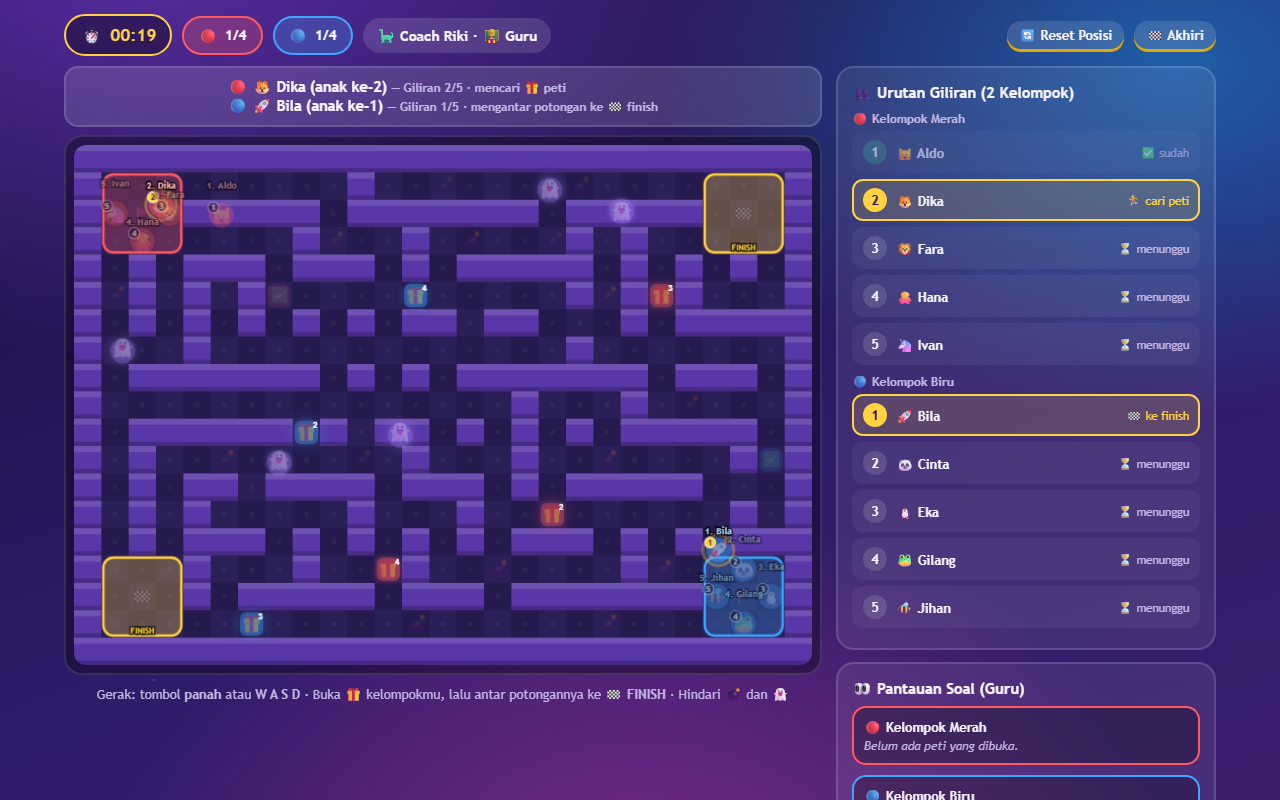
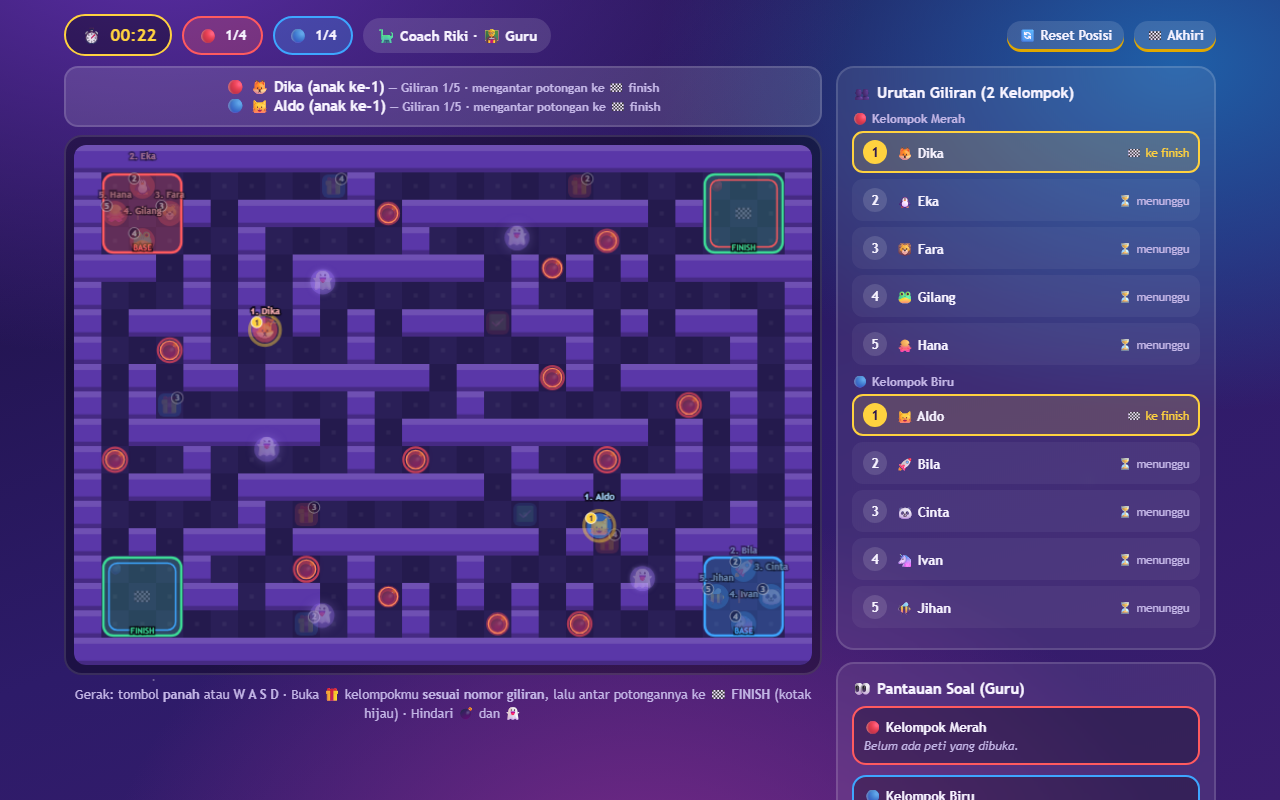
Labirin Harta Karun: peti berurutan, finish hijau, bom lebih terlihat
- Garis finish dibedakan warnanya: ruang finish sekarang HIJAU (base tetap
  merah/biru) dengan bingkai dalam warna kelompok + label "FINISH", dan base
  diberi label "BASE". Jadi jelas mana garis akhir dan milik siapa.
- Bom tidak lagi tenggelam di lantai ungu: emoji 💣 diberi cakram merah
  menyala, cincin peringatan berdenyut, dan bayangan.
- Peti wajib dibuka BERURUTAN sesuai nomor giliran — anak ke-1 hanya bisa
  membuka peti #1, anak ke-2 peti #2, dst. Peti bernomor lain tidak bereaksi
  kalau diinjak. Peti yang sedang jadi target menyala kuning, sisanya redup,
  dan nomornya dibuat lebih besar.
- Letak peti dijauhkan dari semua ruangan: jarak minimal dari base & finish
  kedua kelompok dinaikkan (minimal 9 langkah dari base sendiri), lalu peti
  diurutkan dari yang terdekat supaya rutenya makin jauh tiap giliran.
- Layar hasil: siswa langsung melihat prompt kelompoknya sendiri (tombol
  pilih kelompok disembunyikan); hanya guru yang punya kedua tab.

diff --git a/frontend/public/projects/labirin-harta-karun.html b/frontend/public/projects/labirin-harta-karun.html
@@ -365,8 +365,9 @@ body.guru .gwrap{grid-template-columns:1fr 380px}
     <p class="hint" style="margin:-4px 0 12px">Maksimal <b>10 siswa</b> — 5 anak Kelompok Merah &amp; 5 anak Kelompok Biru. <b>Guru tidak ikut bermain</b>: layar guru dipakai untuk memandu &amp; menampilkan permainan ke kelas.</p>
     <div class="hint" style="margin:-4px 0 12px;padding:10px 12px;border-radius:12px;background:rgba(255,255,255,.06)">
       <b>🎮 Aturan main (bergilir):</b> tiap kelompok jalan <b>satu per satu</b>.
-      Anak ke-1 masuk labirin mencari 🎁 peti pertama — teman-temannya menunggu di titik start dan
-      <b>ikut bantu menjawab soalnya</b>. Setelah peti terbuka, anak ke-1 mengantar potongan prompt ke 🏁 <b>FINISH</b>,
+      Anak ke-1 masuk labirin mencari 🎁 <b>peti #1</b>, anak ke-2 mencari <b>peti #2</b>, dan seterusnya —
+      peti bernomor lain tidak akan terbuka. Teman-temannya menunggu di base dan
+      <b>ikut bantu menjawab soalnya</b>. Setelah peti terbuka, anak ke-1 mengantar potongan prompt ke 🏁 <b>FINISH</b> (kotak hijau di seberang base),
       baru giliran anak ke-2, dan seterusnya. Petinya ada 4, jadi anak ke-5 kebagian <b>lari penutup</b>
       menyeberangi labirin sampai finish — saat itu kelompoknya dinyatakan selesai.
       Kalau anggotanya kurang dari 5, urutannya <b>berputar lagi</b> dari anak pertama.
@@ -437,7 +438,7 @@ body.guru .gwrap{grid-template-columns:1fr 380px}
         <button data-d="L">◀</button><span></span><button data-d="R">▶</button>
         <span></span><button data-d="D">▼</button><span></span>
       </div>
-      <p class="hint" id="hintKontrol" style="text-align:center;margin-top:10px">Gerak: tombol <b>panah</b> atau <b>W A S D</b> · Buka 🎁 kelompokmu, lalu antar potongannya ke 🏁 <b>FINISH</b> · Hindari 💣 dan 👻</p>
+      <p class="hint" id="hintKontrol" style="text-align:center;margin-top:10px">Gerak: tombol <b>panah</b> atau <b>W A S D</b> · Buka 🎁 kelompokmu <b>sesuai nomor giliran</b>, lalu antar potongannya ke 🏁 <b>FINISH</b> (kotak hijau) · Hindari 💣 dan 👻</p>
     </div>
 
     <div class="side">
@@ -538,7 +539,7 @@ body.guru .gwrap{grid-template-columns:1fr 380px}
 /* Dinaikkan setiap kali aturan main berubah. Dipakai untuk memperingatkan
    perangkat yang masih memuat versi lama dari cache browser — kalau host dan
    pemain beda versi, aturannya tidak cocok dan permainan bisa macet. */
-var GAME_VER = '2026.10.10';
+var GAME_VER = '2026.10.10b';
 
 var CONFIG = {
   // --- OPSIONAL: tempel config Firebase di sini agar sync lebih stabil ---
@@ -817,24 +818,36 @@ function buildWorld(seed){
     }
     return true;
   }
+  /* Peti tidak boleh nempel ke ruangan mana pun (base & finish kedua kelompok),
+     supaya anak benar-benar masuk labirin dulu. */
+  var pusatRuang = [starts.merah, starts.biru, finish.merah, finish.biru];
+  function jauhDariRuang(c, min){
+    for(var i=0;i<pusatRuang.length;i++){
+      if(Math.abs(pusatRuang[i].x-c.x)+Math.abs(pusatRuang[i].y-c.y) < min) return false;
+    }
+    return true;
+  }
   function pickChests(dist, other, minFromStart){
-    var cand = shuffleSeeded(open.filter(function(c){
-      return dist[c.y][c.x] >= minFromStart;
-    }), rnd);
-    var out=[], minGap=7;
+    var out=[], minGap=7, minRuang=6;
     while(out.length<4 && minGap>2){
+      var cand = shuffleSeeded(open.filter(function(c){
+        return dist[c.y][c.x] >= minFromStart && jauhDariRuang(c, minRuang);
+      }), rnd);
       for(var i=0;i<cand.length && out.length<4;i++){
         var c=cand[i];
         if(!far(out,c,minGap)) continue;
         if(!far(other,c,4)) continue;
         out.push({x:c.x,y:c.y});
       }
-      minGap-=2;
+      minGap-=2; if(minRuang>4) minRuang-=1;
     }
+    /* Peti dibuka BERURUTAN (anak ke-1 wajib peti #1, dst), jadi diurutkan dari
+       yang terdekat ke base supaya rutenya makin jauh di tiap giliran. */
+    out.sort(function(a,b){ return dist[a.y][a.x] - dist[b.y][b.x]; });
     return out;
   }
-  var chM = pickChests(dM, [], 7);
-  var chB = pickChests(dB, chM, 7);
+  var chM = pickChests(dM, [], 9);
+  var chB = pickChests(dB, chM, 9);
 
   // --- bom ---
   // bom juga menjauh dari mulut base & finish
@@ -1549,14 +1562,13 @@ var HOST = {
       }
     }
     if(g.stage==='cari'){
-      // sedang berburu peti: peti kelompok sendiri yang belum terbuka
-      var ch=w.chests[p.group];
-      for(var c=0;c<ch.length;c++){
-        if(ch[c].x===nx && ch[c].y===ny && !g.found[c] && !g.active){
-          g.active = { ci:c, qIdx:g.qIdx[c], by:p.pid, byName:p.name, deadline: nowMs()+CONFIG.ANSWER_SECONDS*1000, ans:SOAL[g.qIdx[c]].a };
-          g.result = null;
-          return;
-        }
+      /* Peti HARUS berurutan: giliran ke-1 membuka peti #1, giliran ke-2 peti #2,
+         dst. Peti lain tidak bereaksi kalau diinjak. */
+      var c = g.turn;
+      var ch = w.chests[p.group][c];
+      if(ch && ch.x===nx && ch.y===ny && !g.found[c] && !g.active){
+        g.active = { ci:c, qIdx:g.qIdx[c], by:p.pid, byName:p.name, deadline: nowMs()+CONFIG.ANSWER_SECONDS*1000, ans:SOAL[g.qIdx[c]].a };
+        g.result = null;
       }
       return;
     }
@@ -1650,6 +1662,7 @@ var HOST = {
         activeCi: g.active? g.active.ci : null,
         activeDeadline: g.active? g.active.deadline : null,
         order: g.order.slice(), turn: g.turn, lewat: g.lewat||0, misi: CONFIG.MISI, stage: g.stage,
+        petiTarget: (g.stage==='cari' && g.turn<4) ? g.turn : null,
         turnPid: gil, turnName: pg? pg.name : null, turnAva: pg? pg.ava : null,
         turnNo: pg? (pg.nomor||0) : 0
       };
@@ -1891,7 +1904,7 @@ function renderUrutan(){
       var sudah=false;
       for(var tcek=0; tcek<g.turn; tcek++) if((tcek+(g.lewat||0))%n===i){ sudah=true; break; }
       var st = g.finishedAt!=null ? '✅ selesai'
-             : sekarang ? (g.stage==='pulang' ? '🏁 ke finish' : '🏃 cari peti')
+             : sekarang ? (g.stage==='pulang' ? '🏁 ke finish' : ('🏃 cari peti #'+(g.turn+1)))
              : (sudah ? '✅ sudah' : '⏳ menunggu');
       html += '<div class="urow'+(sekarang?' now':'')+(sudah&&!sekarang?' sudah':'')+(pid===MY.pid?' aku':'')+'">'+
               '<span class="no">'+(i+1)+'</span>'+
@@ -1913,7 +1926,7 @@ function teksMisi(g){
       ? 'lari penutup ke 🏁 finish'
       : 'mengantar potongan ke 🏁 finish');
   }
-  return 'Giliran '+no+'/'+tot+' · mencari 🎁 peti';
+  return 'Giliran '+no+'/'+tot+' · mencari 🎁 peti #'+no;
 }
 function renderGiliran(){
   var S=V.pub, me=S.players[MY.pid]; if(!me) return;
@@ -1953,9 +1966,10 @@ function renderGiliran(){
       ? (g.turn>=(g.misi||CONFIG.MISI)-1
           ? '<span class="ava">🏁</span><div>GILIRANMU — LARI PENUTUP!<small>Petinya sudah habis. Seberangi labirin sampai 🏁 finish untuk menutup permainan kelompokmu.</small></div>'
           : '<span class="ava">🏁</span><div>Peti terbuka — antar ke FINISH!<small>Bawa potongan promptnya ke petak 🏁 supaya giliran teman berikutnya bisa mulai.</small></div>')
-      : '<span class="ava">🏃</span><div>GILIRANMU — cari 🎁 peti!<small>Teman sekelompokmu menunggu di titik start dan siap bantu menjawab soalnya.</small></div>';
+      : '<span class="ava">🏃</span><div>GILIRANMU — cari 🎁 PETI #'+(g.turn+1)+'!<small>Hanya peti bernomor <b>'+(g.turn+1)+
+        '</b> yang bisa kamu buka. Teman sekelompokmu menunggu di base dan siap bantu menjawab soalnya.</small></div>';
     bar.innerHTML=isi;
-    pil.innerHTML = (g.stage==='pulang') ? '🏁 Ke finish!' : '🏃 Giliranmu!';
+    pil.innerHTML = (g.stage==='pulang') ? '🏁 Ke finish!' : ('🏃 Peti #'+(g.turn+1));
   }else{
     bar.className='gbar';
     var nm = g.turnName ? esc(g.turnName) : '—';
@@ -2180,7 +2194,12 @@ function renderDone(){
     box.appendChild(d);
   });
   var me=S.players[MY.pid];
-  $('btnAgain').classList.toggle('hidden', !(me&&me.role==='guru'));
+  var guru = me && me.role==='guru';
+  // siswa langsung melihat prompt kelompoknya sendiri; tombol pilih kelompok
+  // hanya untuk guru (cuma guru yang memegang kedua prompt).
+  if(!guru && me && me.group) doneTab = me.group;
+  $('doneTabs').classList.toggle('hidden', !guru);
+  $('btnAgain').classList.toggle('hidden', !guru);
   showDonePrompt();
 }
 function showDonePrompt(){
@@ -2318,6 +2337,7 @@ function draw(){
       ctx.restore();
       return {x:rx+rw/2, y:ry+rh/2};
     }
+    // BASE = warna kelompok (merah / biru)
     var bb=WORLD.baseBox[g];
     gambarRuang(bb, warna, warna, .26);
     var s=WORLD.starts[g];
@@ -2325,29 +2345,60 @@ function draw(){
     ctx.font='bold '+Math.floor(CS*0.5)+'px sans-serif'; ctx.textAlign='center'; ctx.textBaseline='middle';
     ctx.globalAlpha=.75; ctx.fillText('🚩', SX(s.x)+CS/2, SY(s.y)+CS/2+1);
     ctx.restore();
+    if(CS>=18){
+      ctx.save();
+      ctx.font='bold '+Math.max(8,Math.floor(CS*0.28))+'px "Trebuchet MS",sans-serif';
+      ctx.textAlign='center'; ctx.textBaseline='middle';
+      ctx.lineWidth=3; ctx.strokeStyle='rgba(0,0,0,.7)';
+      var by=SY(bb.y1)+CS*0.78;
+      ctx.strokeText('BASE', SX(s.x)+CS/2, by);
+      ctx.fillStyle=warna; ctx.fillText('BASE', SX(s.x)+CS/2, by);
+      ctx.restore();
+    }
 
+    /* FINISH = HIJAU, sengaja dibedakan dari base supaya anak langsung tahu
+       mana garis akhir. Bingkai dalam tetap warna kelompok sebagai penanda
+       finish ini milik siapa. */
     var fb=WORLD.finishBox[g], pulse=0.5+0.5*Math.sin(t*3);
-    gambarRuang(fb, '#ffd23f', '#ffd23f', .14+.16*pulse);
-    var f=WORLD.finish[g];
+    gambarRuang(fb, '#3ddc97', '#3ddc97', .20+.18*pulse);
+    var fx=SX(fb.x0), fy=SY(fb.y0), fw=(fb.x1-fb.x0+1)*CS, fh=(fb.y1-fb.y0+1)*CS;
     ctx.save();
+    ctx.lineWidth=Math.max(1.5,CS*0.055); ctx.strokeStyle=warna;
+    roundRect(ctx,fx+CS*0.28,fy+CS*0.28,fw-CS*0.56,fh-CS*0.56,8); ctx.stroke();
+    var f=WORLD.finish[g];
     ctx.font='bold '+Math.floor(CS*0.6)+'px sans-serif'; ctx.textAlign='center'; ctx.textBaseline='middle';
     ctx.fillText('🏁', SX(f.x)+CS/2, SY(f.y)+CS/2+1);
+    ctx.font=Math.floor(CS*0.42)+'px sans-serif';
+    ctx.fillText(g==='merah'?'🔴':'🔵', fx+CS*0.52, fy+CS*0.5);
     if(CS>=18){
       ctx.font='bold '+Math.max(8,Math.floor(CS*0.3))+'px "Trebuchet MS",sans-serif';
-      ctx.lineWidth=3; ctx.strokeStyle='rgba(0,0,0,.7)';
+      ctx.lineWidth=3; ctx.strokeStyle='rgba(0,0,0,.75)';
       var ty=SY(fb.y1)+CS*0.78;
-      ctx.strokeText('FINISH', SX(f.x)+CS/2, ty); ctx.fillStyle='#ffd23f';
-      ctx.fillText('FINISH', SX(f.x)+CS/2, ty);
+      ctx.strokeText('FINISH', SX(f.x)+CS/2, ty);
+      ctx.fillStyle='#3ddc97'; ctx.fillText('FINISH', SX(f.x)+CS/2, ty);
     }
     ctx.restore();
   });
-  // bom
+  /* bom — emoji 💣 saja hampir tidak terlihat di atas lantai ungu gelap,
+     jadi diberi cakram merah menyala + cincin berdenyut sebagai tanda bahaya */
   WORLD.bombs.forEach(function(b){
-    var sx=SX(b.x), sy=SY(b.y);
-    var pulse = 0.75+0.25*Math.sin(t*4+b.x+b.y);
-    ctx.save(); ctx.globalAlpha=pulse;
-    ctx.font=Math.floor(CS*0.72)+'px sans-serif'; ctx.textAlign='center'; ctx.textBaseline='middle';
-    ctx.fillText('💣', sx+CS/2, sy+CS/2+1);
+    var sx=SX(b.x), sy=SY(b.y), cx=sx+CS/2, cy=sy+CS/2;
+    if(sx<-CS||sy<-CS||sx>cv.width+CS||sy>cv.height+CS) return;
+    var pulse = 0.5+0.5*Math.sin(t*4+b.x+b.y);
+    ctx.save();
+    // cincin peringatan
+    ctx.globalAlpha=0.35+0.4*pulse;
+    ctx.lineWidth=Math.max(1.5,CS*0.08); ctx.strokeStyle='#ff4d5e';
+    ctx.beginPath(); ctx.arc(cx, cy, CS*(0.36+0.1*pulse), 0, 7); ctx.stroke();
+    // cakram isi
+    ctx.globalAlpha=1;
+    ctx.beginPath(); ctx.fillStyle='rgba(255,77,94,.45)';
+    ctx.arc(cx, cy, CS*0.34, 0, 7); ctx.fill();
+    ctx.lineWidth=Math.max(1,CS*0.05); ctx.strokeStyle='#ff8a5c';
+    ctx.beginPath(); ctx.arc(cx, cy, CS*0.34, 0, 7); ctx.stroke();
+    ctx.shadowColor='#ff4d5e'; ctx.shadowBlur=4+6*pulse;
+    ctx.font=Math.floor(CS*0.56)+'px sans-serif'; ctx.textAlign='center'; ctx.textBaseline='middle';
+    ctx.fillText('💣', cx, cy+1);
     ctx.restore();
   });
   // peti
@@ -2358,13 +2409,15 @@ function draw(){
       var sx=SX(c.x), sy=SY(c.y);
       var mine = (meG===g) || (me&&me.role==='guru');
       var ambil = pub.found && pub.found[i];
+      var giliranPeti = (pub.petiTarget===i);     // peti yang WAJIB dibuka sekarang
       ctx.save();
-      if(ambil){ ctx.globalAlpha=.35; }
-      else if(!mine){ ctx.globalAlpha=.4; }
+      if(ambil){ ctx.globalAlpha=.3; }
+      else if(!mine){ ctx.globalAlpha=.35; }
+      else if(!giliranPeti){ ctx.globalAlpha=.42; }   // belum / bukan giliran peti ini
       else {
-        var gl=0.5+0.5*Math.sin(t*3+i);
-        ctx.shadowColor = g==='merah'? '#ff5a5f':'#3ea6ff';
-        ctx.shadowBlur = 6+10*gl;
+        var gl=0.5+0.5*Math.sin(t*4+i);
+        ctx.shadowColor = '#ffd23f';
+        ctx.shadowBlur = 10+16*gl;
       }
       ctx.fillStyle = g==='merah'? 'rgba(255,90,95,.35)':'rgba(62,166,255,.35)';
       roundRect(ctx,sx+2,sy+2,CS-4,CS-4,6); ctx.fill();
@@ -2372,8 +2425,16 @@ function draw(){
       ctx.font=Math.floor(CS*0.66)+'px sans-serif'; ctx.textAlign='center'; ctx.textBaseline='middle';
       ctx.fillText(ambil?'✅':'🎁', sx+CS/2, sy+CS/2+1);
       if(!ambil){
-        ctx.font='bold '+Math.floor(CS*0.3)+'px sans-serif';
-        ctx.fillStyle='#fff'; ctx.fillText(String(i+1), sx+CS*0.82, sy+CS*0.24);
+        // nomor peti: besar & jelas, karena urutannya wajib
+        var nx2=sx+CS*0.78, ny3=sy+CS*0.24;
+        ctx.beginPath();
+        ctx.fillStyle = giliranPeti? '#ffd23f' : 'rgba(10,4,30,.8)';
+        ctx.arc(nx2, ny3, CS*0.21, 0, 7); ctx.fill();
+        ctx.lineWidth=Math.max(1,CS*0.04); ctx.strokeStyle='rgba(255,255,255,.8)'; ctx.stroke();
+        ctx.font='bold '+Math.max(8,Math.floor(CS*0.3))+'px "Trebuchet MS",sans-serif';
+        ctx.textAlign='center'; ctx.textBaseline='middle';
+        ctx.fillStyle = giliranPeti? '#2a1550' : '#fff';
+        ctx.fillText(String(i+1), nx2, ny3+0.5);
       }
       ctx.restore();
     });
@@ -2781,10 +2842,7 @@ BOT.step = function(){
 
     var target = null;
     if(gr.stage==='cari'){
-      var ch = w.chests[gn];
-      // peti favorit per bot supaya tidak selalu peti yang sama yang dikejar
-      var fav = 0; for(var z=0;z<pid.length;z++) fav = (fav*31 + pid.charCodeAt(z)) % 4;
-      for(var k=0;k<4;k++){ var idx=(fav+k)%4; if(!gr.found[idx]){ target = ch[idx]; break; } }
+      target = w.chests[gn][gr.turn] || null;      // wajib peti bernomor giliran
     } else {
       target = w.finish[gn];                             // mengantar potongan / lari penutup
     }
